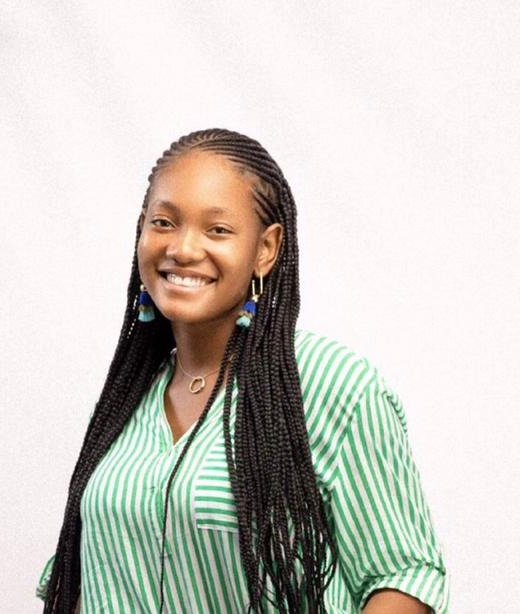
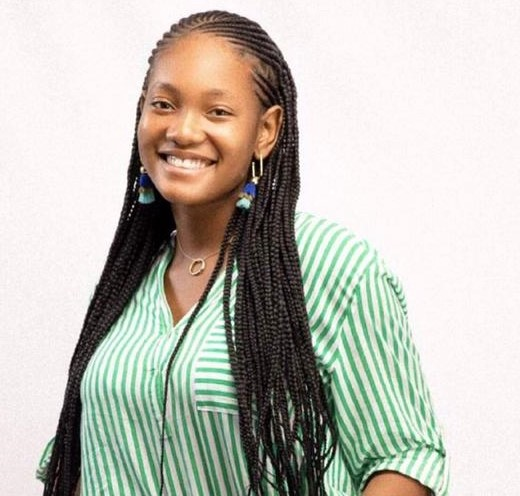
feat: updated team component :octocat:

diff --git a/components/Team/index.tsx b/components/Team/index.tsx
@@ -3,7 +3,7 @@ import { FontAwesomeIcon } from '@fortawesome/react-fontawesome';
 import { faLinkedin } from '@fortawesome/free-brands-svg-icons';
 const Team = () => {
     return (
-        <section className="h-fit w-screen py-10 bg-[#FFFED4]">
+        <section className=" py-10 bg-[#FFFED4]">
             <h1 className='text-3xl text-center mb-10'>Amazing People of Chemotronix </h1>
             <div className="grid grid-cols-3 ml-[8%] w-[90%]">
                 <div className="mb-10" >
@@ -13,31 +13,31 @@ const Team = () => {
                     <p className="text-sm">CEO</p>
                 </div>        
                 <div className="mb-10" >
-                    <Image src="/images/victor.jpg" alt="Offer 2" className="mb-5" width={300} height={300} />
+                    <Image src="/images/victor.jpg" alt="Offer 2" className="mb-5 rounded-2xl" width={300} height={300} />
                     <h1 className="mb-1 text-lg">Victor Olufemi</h1>
                     <FontAwesomeIcon icon={faLinkedin} className="mr-2" />
                     <p className="text-sm">CTO</p>
                 </div>
                 <div className="mb-10" >
-                    <Image src="/images/grace.jpg" alt="Offer 3" className="mb-5" width={300} height={300} />
+                    <Image src="/images/grace.jpg" alt="Offer 3" className="mb-5 rounded-2xl" width={300} height={300} />
                     <h1 className="mb-1 text-lg font-medium">Omojola Grace</h1>
                     <FontAwesomeIcon icon={faLinkedin} className="mr-2" />
                     <p className="text-sm">COO</p>
                 </div>
                 <div className="mb-10" >
-                    <Image src="/images/bolu.jpg" alt="Offer 1" className="mb-5" width={300} height={300} />
+                    <Image src="/images/bolu.jpg" alt="Offer 1" className="mb-5 rounded-2xl" width={300} height={300} />
                     <h1 className="mb-1 text-lg font-medium">Boluwatife Jemiriye</h1>
                     <FontAwesomeIcon icon={faLinkedin} className="mr-2" />
                     <p className="text-sm">CEO</p>
                 </div>        
                 <div className="mb-10" >
-                    <Image src="/images/festus.jpg" alt="Offer 2" className="mb-5" width={300} height={300} />
+                    <Image src="/images/festus.jpg" alt="Offer 2" className="mb-5 rounded-2xl"  width={300} height={300} />
                     <h1 className="mb-1 text-lg">Festus Idowu</h1>
                     <FontAwesomeIcon icon={faLinkedin} className="mr-2" />
                     <p className="text-sm">CTO</p>
                 </div>
                 <div className="mb-10" >
-                    <Image src="/images/offer3.png" alt="Offer 3" className="mb-5" width={300} height={300} />
+                    <Image src="/images/offer3.png" alt="Offer 3" className="mb-5 rounded-2xl" width={300} height={300} />
                     <h1 className="mb-1 text-lg font-medium">Akinola Oreoluwa</h1>
                     <FontAwesomeIcon icon={faLinkedin} className="mr-2" />
                     <p className="text-sm">COO</p>
